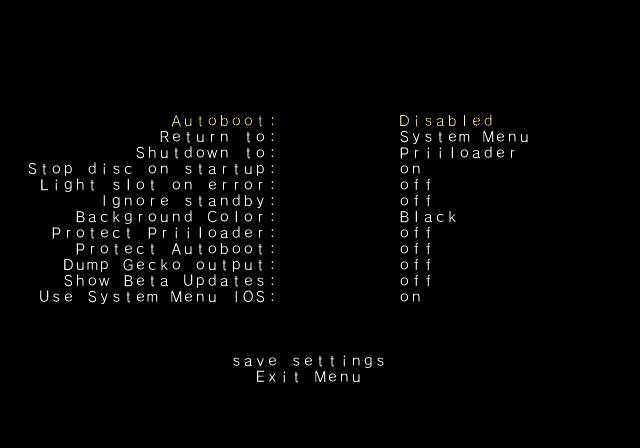
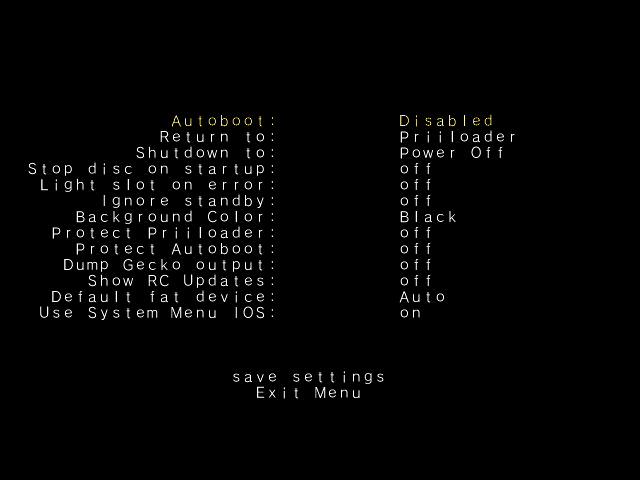
Update guide for Priiloader v0.10.0 RC3 (#370)

Changed region(s): [[0.0312, 0.25, 0.4375, 0.6875], [0.625, 0.2188, 0.8125, 0.6875], [0.3438, 0.7812, 0.625, 0.875]]

diff --git a/_pages/en_US/priiloader.md b/_pages/en_US/priiloader.md
@@ -15,80 +15,110 @@ Priiloader adds a level of brick protection to your Wii. It loads before the Wii
 
 ![Installing Priiloader](/images/Priiloader/priiloader.jpg)
 
-Do **not** install Priiloader on a vWii (Wii mode on Wii U). You will brick your vWii by doing this.
-{: .notice--warning}
+{% capture notice-vwii-priiloader %}
+Priiloader 0.10.0 introduces vWii support! <br>
+There are some important things to take note of:
+- To fix the timestamp issues (FORE000006, wrong News Channel update time), you will need to [generate a timestamp fix hack](https://garyodernichts.github.io/priiloader-patch-gen/). More info on the page.
+- Installing a theme after installing Priiloader **will brick your vWii.**
+
+And some things to enhance your vWii experience:
+- [Priiloader Wii U Forwarder](https://github.com/DacoTaco/priiloader/releases/download/0.10.0-RC3/PriiloaderWiiUForwarder.wuhb) to load Priiloader straight from the Wii U Menu. **This only works on Aroma.**
+- [evWii Aroma Plugin](https://github.com/GaryOderNichts/evwii/releases) to enhance some extra features for vWii. The features are listed [here](https://github.com/GaryOderNichts/evwii#features).
+{% endcapture %}
+
+<div class="notice--success" markdown="1">{{ notice-vwii-priiloader }} </div>
 
 #### What you need
 
 - An SD card or USB drive
-- [Priiloader installer](https://github.com/DacoTaco/priiloader/releases/download/0.9.1/Priiloader_v0_9_1.zip)
+- [Priiloader installer](https://hbb1.oscwii.org/hbb/priiloader/priiloader.zip)
+- [LoadPriiloader](https://hbb1.oscwii.org/hbb/LoadPriiloader/LoadPriiloader.zip)
 
 #### Instructions
 
 ##### Section I - Downloading/Installing
 
-1. Download the Priiloader installer and extract it to the root of your SD card or USB drive.
+1. Download the Priiloader installer and LoadPriiloader apps.
+1. Extract both apps to the root of your SD card or USB drive.
 
 ##### Section II - Installing Priiloader
 
 1. Launch the Homebrew Channel on your Wii.
-2. Launch the Priiloader installer.
-3. Press the + Button on Wii Remote or the A Button on a GameCube controller.
-   ![Install Priiloader](/images/Priiloader/installer.jpg)
-   ![Installing](/images/Priiloader/installing.jpg)
+1. Launch the Priiloader installer.
+1. Press the + Button on Wii Remote or the A Button on a GameCube controller.
+   ![Install Priiloader](/images/Priiloader/installer.png)
+   ![Installing](/images/Priiloader/installing.png)
+1. Press A to return to the Homebrew Channel.
 
-##### Section III - Entering/Configuring Priiloader
+##### Section III - Entering Priiloader
 
-1. Hold the RESET button while turning on your Wii.
-   - If you are using a Wii mini, plug in a USB keyboard and hold Escape on it while turning it on.
+Priiloader will appear automatically after you install it. Simply exit the Homebrew Channel, and you should see the Priiloader menu:
+   ![Priiloader menu](/images/Priiloader/menu.png)
 
-![Turn on](/images/Priiloader/on.jpg)
-![Hold RESET](/images/Priiloader/reset.jpg)
-
-2. You should see the Priiloader menu.
-   ![Menu](/images/Priiloader/mainmenu.jpg)
-3. Go to `System Menu Hacks`.
-
-If you are using a USB drive to install Priiloader, make sure you do not have an SD card inserted at the same time.
-This will cause Priiloader to be unable to find the hacks_hash.ini file.
-{: .notice--info}
-
-4. We recommend you turn on the following hacks: `Region Free EVERYTHING`, `Block Disc Updates` and `Block Online Updates`.
-   ![System Menu Hacks](/images/Priiloader/hacks.jpg)
-1. Scroll down to `save settings` and press A, then press B to go back to the main menu of Priiloader.
-1. Scroll to `Homebrew Channel` and press A to launch it.
+To enter it later on, simply run the "Load Priiloader" homebrew app. There are also other ways to enter Priiloader:
+- Holding RESET on a Wii while turning it on.
+- Holding the ESC key on a USB keyboard while turning on the console.
 
 ### Configuring Priiloader
 
-#### System Menu Hacks List
+#### System Menu Hacks
 
-This is a list of the hacks you can enable with Priiloader.
+1. Launch the Homebrew Channel, and launch the Load Priiloader app.
+1. Scroll down to `System Menu Hacks` and press `A`.
+   ![System menu hacks](/images/Priiloader/menu_hacks.png)
 
-| Hack                                    | Description                                                                                                                                                                           |
-| --------------------------------------- | ------------------------------------------------------------------------------------------------------------------------------------------------------------------------------------- |
-| Block Disc Updates                      | Removes the "Wii System Update" screen included with some games that forces you to update the system before playing the game.                                                         |
-| Block Online Updates                    | Disables updating your Wii. Updates will fail with error 32007.                                                                                                                       |
-| Auto-Press A at Health Screen           | Automatically presses the A Button to get past the initial "Health and Safety" screen.                                                                                                |
-| Replace Health Screen with Backmenu     | Changes the "Health and Safety" screen to the animation played when returning to the Wii Menu.                                                                                        |
-| Move Disc Channel                       | Enables moving the Disc Channel anywhere on the Wii Menu. It's normally stuck in the top left of the first page.                                                                      |
-| Wiimmfi Patch v4                        | Automatically patches all games you run from the Disc Channel for use with Wiimmfi.                                                                                                   |
-| 480p graphics fix in system menu        | Fixes a small issue with 480p on the Wii Menu.                                                                                                                                        |
-| Remove NoCopy Save File Protection      | Allows you to copy normally disallowed save files to your SD card from Data Management                                                                                                |
-| Region Free EVERYTHING                  | Disables region locking for any Wii application, including downloaded ones.                                                                                                           |
-| No System Menu Sounds AT ALL            | Disables all the Wii Menu sound effects.                                                                                                                                              |
-| No System Menu Background Music         | Disables the Wii Menu background music.                                                                                                                                               |
-| Re-Enable Bannerbomb v2                 | Enables the "Bannerbomb" exploit on the latest Wii version. Not needed when the Homebrew Channel is already installed.                                                                |
-| OSReport to UsbGecko(slot B)            | Sends Wii Menu logs to a debugging device in memory card slot B.                                                                                                                      |
-| OSReport to UsbGecko(GeckoOS,B)         | Sends Wii Menu logs to a debugging device in memory card slot B, if the Wii Menu is launched by Gecko OS.                                                                             |
-| Force Standard Recovery Mode            | Automatically launches the console in recovery mode. Used to launch recovery discs, letting users unbrick their Wii systems.                                                          |
-| Remove Diagnostic Disc Check            | Removes a check in the Wii to see if an inserted game matches the title ID of the "Wii Startup Disc".                                                                                 |
-| No-Delete HAXX,JODI,DVDX,DISC,DISK,RZDx | Re-enable channels with these title IDs (originally blocked in system updates due to them being exploits).                                                                            |
-| Force Disc Games to run under IOS249    | Make discs use cIOS 249 as the game's IOS. While it cannot allow playing of burned games on its own, it is needed to play burned discs. (Can give you Error 002 on a non-burned game) |
-| Remove Deflicker                        | Removes the deflicker filter and makes the Wii Menu appear clearer.                                                                                                                 |
+If you have put the Priiloader installer on your USB drive, make sure you do not have an SD card inserted at the same time. <br>
+This causes Priiloader to fail to find the `hacks_hash.ini` file.
+{: .notice--warning}
+
+1. Press `A` on each hack you would like to enable.<br>
+We reccommend that you enable `Block Disc Updates`, `Block Online Updates`, and `Region Free EVERYTHING`.
+   ![System menu hacks list](/images/Priiloader/system_menu_hacks.png)
+1. Scroll down to `save settings` and press `A`.
+1. Press `B` to return to the main menu.
+
+<details id="system-menu-hacks-list" class="notice--info" markdown="1">
+<summary><a>Click here for a full list of available System menu hacks.</a></summary>
+
+| Hack										| Description																																											|
+| ----------------------------------------- | ------------------------------------------------------------------------------------------------------------------------------------------------------------------------------------- |
+| Block Disc Updates						| Removes the "Wii System Update" screen included with some games that forces you to update the system before playing the game.															|
+| Block Online Updates						| Disables updating your Wii. Updates will fail with error 32007.																														|
+| Auto-Press A at Health Screen				| Automatically presses the A Button to get past the initial "Health and Safety" screen.																								|
+| Replace Health Screen with Backmenu		| Changes the "Health and Safety" screen to the animation played when returning to the Wii Menu.																						|
+| Move Disc Channel							| Enables moving the Disc Channel anywhere on the Wii Menu. It's normally stuck in the top left of the first page.																		|
+| Wiimmfi Patch v4							| Automatically patches all games you run from the Disc Channel for use with Wiimmfi.																									|
+| 480p graphics fix in system menu			| Fixes a small issue with 480p on the Wii Menu.																																		|
+| Remove NoCopy Save File Protection		| Allows you to copy normally disallowed save files to your SD card from Data Management																								|
+| Region Free EVERYTHING					| Disables region locking for any Wii application, including downloaded ones.																											|
+| ~~No System Menu Sounds AT ALL~~			| ~~Disables all the Wii Menu sound effects.~~ Currently broken.																														|
+| No System Menu Background Music			| Disables the Wii Menu background music.																																				|
+| Re-Enable Bannerbomb v2					| Enables the "Bannerbomb" exploit on the latest Wii version. Not needed when the Homebrew Channel is already installed.																|
+| OSReport to UsbGecko(slot B)				| Sends Wii Menu logs to a debugging device in memory card slot B.																														|
+| OSReport to UsbGecko(GeckoOS,B)			| Sends Wii Menu logs to a debugging device in memory card slot B, if the Wii Menu is launched by Gecko OS.																				|
+| Force boot into Data Management			| Immediately loads the Wii menu into Data Management.																																	|
+| Force Standard Recovery Mode				| Automatically launches the console in recovery mode. Used to launch recovery discs, letting users unbrick their Wii systems.															|
+| Remove Diagnostic Disc Check				| Removes a check in the Wii to see if an inserted game matches the title ID of the "Wii Startup Disc".																					|
+| No-Delete HAXX,JODI,DVDX,DISC,DISK,RZDx	| Re-enable channels with these title IDs (originally blocked in system updates due to them being exploits).																			|
+| Force Disc Games to run under IOS249		| Make discs use cIOS 249 as the game's IOS. While it cannot allow playing of burned games on its own, it is needed to play burned discs. (Can give you Error 002 on a non-burned game)	|
+| Remove Deflicker							| Removes the deflicker filter and makes the Wii Menu appear clearer.																													|
+| Block Disc Autoboot						| This prevents the Wii from instantly launching discs with title IDs starting with 0 or 1 (0x30, 0x31).																				|
+| Allow TitleID RAAE, 408x, 410x			| Allows the Wii Menu to read the discs with the title IDs RAAE (Wii Startup Disc), 408x and 410x (Wii Backup Disc)																		|
+| Remove IOS16 Disc Error					| Allows the Wii Menu to launch discs (this is only the Wii Backup Disc) that use IOS16.																								|
+| Mark Network Connection as Tested			| Enables the `Use This Connection` button in the Internet connection settings, regardless of the results of the last connection test.													|
+| Always enable WiiConnect24 for vWii		| Enables WiiConnect24 & Standby Connection every time the Wii menu starts. **Requires a reboot after enabling.**																		|
+| Create message via Calendar button (vWii)	| Clicking on the Calendar button opens the Create Message menu instead of the Calendar, allowing the user to create Memos, send messages to, and register Wii friends.					|
+
+</details>
+
+[Continue to the Dos and Don'ts of Wii Modding](dosanddonts)<br>
+These are some guidelines to ensure you don't brick your Wii.
+{: .notice--info}
+
 
 #### Autobooting with Priiloader
 
-Priiloader allows you to automatically boot to the Homebrew Channel, an individual homebrew application, or Priiloader itself.
+Priiloader allows you to automatically boot to the Homebrew Channel, an individual homebrew application, or Priiloader itself. This is optional.
 
 ##### Autobooting a Homebrew application 
 
@@ -105,22 +135,19 @@ You will be installing `uneoboot.dol` in step 3.
 
 <div class="notice--warning"> {{ UNEO | markdownify }} </div>
 
-1. Enter Priiloader by holding RESET when turning on your Wii.
-  - If you are using a Wii Mini, plug in a USB keyboard and hold Escape while turning it on.
-![Turn on](/images/Priiloader/on.jpg)
-![Hold RESET](/images/Priiloader/reset.jpg)
+1. Launch the Homebrew channel, then launch the Load Priiloader app.
 1. Scroll down to `Load/Install file` and press A.
-![Load/Install file](/images/Priiloader/menu_install_file.png)
+   ![Load/Install file](/images/Priiloader/menu_install_file.png)
 1. Scroll through the menu until your desired homebrew app is highlighted, and press A to install it.
-![Installing a Homebrew app](/images/Priiloader/installing_file.png)
-![Installing a Homebrew app OK](/images/Priiloader/installing_file_ok.png)
+   ![Installing a Homebrew app](/images/Priiloader/installing_file.png)
+   ![Installing a Homebrew app OK](/images/Priiloader/installing_file_ok.png)
 1. Press B to go back to the main menu.
 1. Scroll down to `Settings` and press A.
-![Settings](/images/Priiloader/menu_settings.png)
+   ![Settings](/images/Priiloader/menu_settings.png)
 1. Press Right to cycle through the Autoboot options until `Installed file` is selected.
-![Autoboot: Installed File](/images/Priiloader/autoboot_installed_file.png)
+   ![Autoboot: Installed File](/images/Priiloader/autoboot_installed_file.png)
 1. Scroll down to `save settings` and press A.
-![Saving settings](/images/Priiloader/settings_save.png)
+   ![Saving settings](/images/Priiloader/settings_save.png)
 1. Press B to return to the main menu.
 1. Scroll back up to `System Menu` and press A.
 
@@ -128,24 +155,18 @@ Your Wii should now automatically boot to whichever homebrew app you installed.
 
 ##### Autobooting the Homebrew Channel or Priiloader
 
-1. Enter Priiloader by holding RESET when turning on your Wii.
-  - If you are using a Wii Mini, plug in a USB keyboard and hold Escape while turning it on.
-![Turn on](/images/Priiloader/on.jpg)
-![Hold RESET](/images/Priiloader/reset.jpg)
+1. Launch the Homebrew Channel, then launch the Load Priiloader app.
 1. Scroll down to `Settings` and press A.
-![Settings](/images/Priiloader/menu_settings.png)
+   ![Settings](/images/Priiloader/menu_settings.png)
 1. Press Right to cycle through the Autoboot options until your desired option is selected. <br>
 `Disabled` will autoboot to the Priiloader menu.
 
 Please don't set Autoboot to `BootMii IOS`. You will get stuck in a loop until you continuously hold the RESET button to enter the Priiloader menu.
 {: .notice--warning}
 
-![Autoboot](/images/Priiloader/autoboot_disabled.png)
+   ![Autoboot](/images/Priiloader/autoboot_disabled.png)
 1. Scroll down to `save settings` and press A.
-![Saving settings](/images/Priiloader/settings_save.png)
+   ![Saving settings](/images/Priiloader/settings_save.png)
 1. Press B to return to the main menu.
 1. Scroll back up to `System Menu` and press A.
 
-[Continue to the Dos and Don'ts of Wii Modding](dosanddonts)<br>
-These are some guidelines to ensure you don't brick your Wii.
-{: .notice--info}

diff --git a/_pages/en_US/riiconnect24-vwii.md b/_pages/en_US/riiconnect24-vwii.md
@@ -11,9 +11,6 @@ If you need help for anything regarding this tutorial, please join [the RiiConne
 
 Guide to installing [RiiConnect24](https://rc24.xyz) on vWii (Virtual Wii on Wii U).
 
-Since certain features found in the original Wii are not present in the vWii, we can only partially utilize RiiConnect24. See [what's currently working](#whats-currently-working) for details.
-{: .notice--warning}
-
 [RiiConnect24](https://rc24.xyz/) allows you to use discontinued services from WiiConnect24, which include the News, Forecast, Everybody Votes, Nintendo and Check Mii Out Channel, along with Wii Mail.
 
 {% capture notice-1 %}
@@ -36,23 +33,26 @@ DO NOT INSTALL RIICONNECT24 ON A WII MINI! It will not work and it will brick th
 We are **NOT** responsible if you brick, or damage your console in any way whatsoever. If you follow this guide exactly, you shouldn't have any problems.
 {: .notice--warning}
 
-Do **NOT** perform this guide on any other console than the vWii (Virtual Wii on Wii U). If you're looking for instructions for a Nintendo Wii, use [this guide](riiconnect24). If you'd like to perform this guide on the Dolphin emulator, use [this guide](riiconnect24-dolphin) instead.
-{: .notice--warning}
-
 #### What you need
 
 * An SD card or USB drive
 * A computer
-* A Wii U console with an Internet connection that's capable of launching the Homebrew Launcher (either via the web browser exploit, Haxchi or Coldboot Haxchi). **If you do not have a softmodded Wii U console, please follow [wiiuguide.xyz](https://wiiuguide.xyz), as well as [the virtual Wii modding guide](https://wiiuguide.xyz/#/vwii-modding) and then come back.**
+* A Wii U with [the vWii modded](https://wiiu.hacks.guide/#/vwii-modding). **This guide requires the latest CFW on your Wii U.**
 * A Nintendo Network ID (NNID) linked to your Wii U
+* [Priiloader](priiloader) installed on your vWii
+* [Load Priiloader](https://hbb1.oscwii.org/hbb/LoadPriiloader/LoadPriiloader.zip)
 * [RiiConnect24 Patcher (Windows, Mac and Linux)](https://github.com/RiiConnect24/RiiConnect24-Patcher/releases)
+* [RiiConnect24 Mail Patcher](https://hbb1.oscwii.org/hbb/Mail-Patcher/Mail-Patcher.zip)
 
-After following the above linked guide, you should have:
+{% capture notice-2 %}
+After following the vWii modding guide linked above, you should have:
 * A vWii NAND backup and keys (keep these stored safely!!)
 * The Homebrew Channel installed
 * d2x cIOS installed (IOS249, IOS250 and IOS251)
 * IOS80 patched
-{: .notice--info}
+{% endcapture %}
+
+<div class="notice" markdown="1">{{ notice-2 }}</div>
 
 #### Instructions
 
@@ -61,7 +61,7 @@ After following the above linked guide, you should have:
 If you can't run RiiConnect24 Patcher, please join [the RiiConnect24 Discord server](https://discord.gg/rc24) (recommended) or [e-mail us at support@riiconnect24.net](mailto:support@riiconnect24.net) for further assistance.
 {: .notice--info}
 
-1. Click the link above to go to the GitHub page where the patcher is.
+1. Click the RiiConnect24 Patcher link above to go to the GitHub page where the patcher is.
 2. Download `RiiConnect24Patcher.bat` if you are on Windows, and `RiiConnect24Patcher.sh` if you are on a Unix system
 3. On Windows run `RiiConnect24Patcher.bat`. On Unix systems, open Terminal and type `bash`, then drag `RiiConnect24Patcher.sh` into the terminal then press enter. It should look like this: `bash RiiConnect24Patcher.sh`.
 4. Press 1 to choose "`Start`" and confirm your selection by pressing `ENTER`. (NOTE: These screenshots are from the Windows version of the patcher.)
@@ -99,21 +99,25 @@ You will now install the patched IOS and Channel WADs that are required to use R
 6. If you get an error saying a title with a higher version is already installed (error -1035), go back to the WAD selection menu and press the - Button on the highlighted WAD to uninstall it, then try installing it again.
 7. After they are successfully installed, press the HOME Button to exit back to the Homebrew Channel.
 
-##### Section III - Patching 43db for 16:9 (optional)
+##### Section III - Patching nwc24msg.cfg
 
-1. Launch ww-43db-patcher and wait for it to complete.
+You will now patch your `nwc24msg.cfg` file which is required in order to use Wii Mail.
 
-If you [install a theme](/themes-vwii), you will have to run the ww-43db-patcher once more.
+1. Launch the RiiConnect24 Mail Patcher from the Homebrew Channel.
+2. It should only take a few seconds to patch your nwc24msg.cfg. When it's done, press the HOME Button to exit.
+
+If you were unable to patch your nwc24msg.cfg correctly, please join [the RiiConnect24 Discord server](https://discord.gg/rc24) (recommended) or [e-mail us at support@riiconnect24.net](mailto:support@riiconnect24.net) for further assistance.
 {: .notice--info}
 
 ##### Section IV - Using RiiConnect24
 
-After following the above sections, you're almost ready to utilize RiiConnect24 on your Wii U. You just need to perform the following steps **every time you boot into vWii**.
-
-1. On the **Wii Menu**, launch the **ConnectMii** channel.
-* This will enable the WiiConnect24 and Standby Connection flags required by the WiiConnect24 Channels.
-2. Launch the WiiConnect24 Channels.
-* You should now be able to utilize all of the WiiConnect24 Channels you have installed.
+1. Launch the `Load Priiloader` application from the Homebrew Channel.
+1. In the Priiloader menu, go to `System Menu Hacks`.
+   ![System menu hacks](/images/Priiloader/system_menu_hacks.png)
+1. Scroll through the list until you see `Always enable WiiConnect24 for vWii` and `Create message via Calendar button`, and press `A` on both to enable them.
+1. Scroll down to `save settings`, press `A`, then press `B` to go back.
+1. Select `System Menu.`
+1. Return to the Wii U Menu, then go right back to Wii Mode.
 
 #### What's currently working?
 The following RiiConnect24 services are **working** on the vWii:
@@ -122,11 +126,8 @@ The following RiiConnect24 services are **working** on the vWii:
 * Everybody Votes Channel
 * Nintendo Channel
 * Check Mii Out Channel / Mii Contest Channel
+* Wii Mail (requires Priiloader's `Create message via Calendar button` hack)
 {: .notice--success}
-
-The following RiiConnect24 services are **not working** on the vWii:
-* Wii Mail (most functionality does not exist on vWii)
-    * This includes sending/receiving mail to/from friends.
 
 Most services that utilize WiiConnect24 will be able to work if you leave vWii running for several hours. There's no standby mode on the console.
 {: .notice--warning}

diff --git a/_pages/en_US/themes-vwii.md b/_pages/en_US/themes-vwii.md
@@ -15,9 +15,6 @@ We are **NOT** responsible if you brick, or damage your console in any way whats
 Do **NOT** install the themes made in this guide on an actual Wii. They are only compatible with the vWii System Menu and will brick an actual Wii.
 {: .notice--danger}
 
-WiiMotes with Wii MotionPlus will not work on MyMenuify, unfortunately there isn't anything we can do about this at the moment and you'll have to use an older Wii remote.
-{: .notice--warning}
-
 There are some themes that aren't compatible with the vWii System Menu, they may result in anything from graphical glitches to a full theme brick. We recommend only using themes from [rc24.xyz/goodies/themes](https://rc24.xyz/goodies/themes/) since these are compatible with modern versions of the System Menu.
 {: .notice--warning}
 
@@ -27,10 +24,9 @@ If you somehow happen to brick your vWii, [follow this guide](https://gbatemp.ne
 #### What You Need
 
 * A Wii U with the Homebrew Channel installed.
-* A Wiimote without Wii MotionPlus
-* An SD card
+* An SD card or USB drive
 * A computer with Windows on it (or using Mono or Wine on Mac/Linux)
-* [MyMenuify](/assets/files/Mymenuify-Old-vWii.zip)
+* [MyMenuifyMod](https://hbb1.oscwii.org/hbb/MyMenuifyMod/MyMenuifyMod.zip)
 * [ThemeMii Mod](/assets/files/New_ThemeMii_MOD.zip)
 * [NUS Downloader (vWii)](/assets/files/NUSDownloader-vwii.zip)
 
@@ -70,11 +66,11 @@ There are a couple of ways to get the .app files for your vWii System Menu, in t
 2. Click on `Database...`
 3. Go to `System` > `System Menu` and select the version corresponding to your region as shown in the table below.
 
-| Region | vWii Menu version                                                               |
-| ------ | ---------------------------------------- |
-| Japan  | v608 |
-| USA    |  v609   |
-| Europe |    v610    |
+| Region	| vWii Menu version		|
+| ---------	| --------------------	|
+| Japan 	| v608 					|
+| USA   	| v609					|
+| Europe	| v610 					|
 
 After selecting the correct version to download, check the box for `Create Decrypted Contents (*.app)`. Then, press the `Start NUS Download` Button on the top of the window.
 
@@ -84,11 +80,11 @@ After selecting the correct version to download, check the box for `Create Decry
 
 After the download has finished, search for the .app file corresponding to your region in the folder where NUS Downloader is.
 
-| Region | .app file for your region                                                               |
-| ------ | ---------------------------------------- |
-| Japan   | 0000001c.app |
-| USA     | 0000001f.app    |
-| Europe  | 00000022.app   |
+| Region 	| .app file for your region	|
+| ---------	| -------------------------	|
+| Japan		| 0000001c.app				|
+| USA		| 0000001f.app				|
+| Europe	| 00000022.app				|
 
 If you can't find the .app file, it's possible you have downloaded the wrong version of the Wii Menu and you'll need to try again.
 
@@ -100,17 +96,17 @@ After you find the .app file, copy it to the main directory of the folder contai
 2. Do not click `Download Base App`, ThemeMii does not have base .app files for vWii. If you download a base app, you must delete it in order to use the vWii .app file.
 3. In ThemeMii select `File` -> `Open` and navigate to the .mym theme you downloaded earlier.
 4. Click on `Create CSM` and select the .app file that you copied to the ThemeMii folder.
-5. Now navigate to the theme folder on your SD card and save your theme with the .csm extension.
+5. Now navigate to the `theme` folder on your SD card and save your theme with the .csm extension.
 
 ![ThemeMii Menu](/images/Themes-vWii/ThemeMii-Mod-Preview_vWii.png)
 
 ##### Section IV - Installing the Theme
 
 1. Eject your SD card from your PC and put it into your Wii U.
-2. Start the Homebrew Channel and launch MyMenuify.
-3. Navigate to your theme folder and select the .csm file you just created.
+2. Start the Homebrew Channel and launch MyMenuifyMod.
+3. Select the .csm file you just created.
 4. When it prompts you to install the theme say `Yes`, and wait for it to finish.
-5. When it finishes installing, MyMenuify will prompt you to either `Continue` or `Exit`, choose `Exit`.
+5. When it finishes installing, MyMenuifyMod will prompt you to either `Continue` or `Exit`, choose `Exit`.
 
 If you did everything correctly, you should now have your custom theme installed on your Wii Menu.
 
